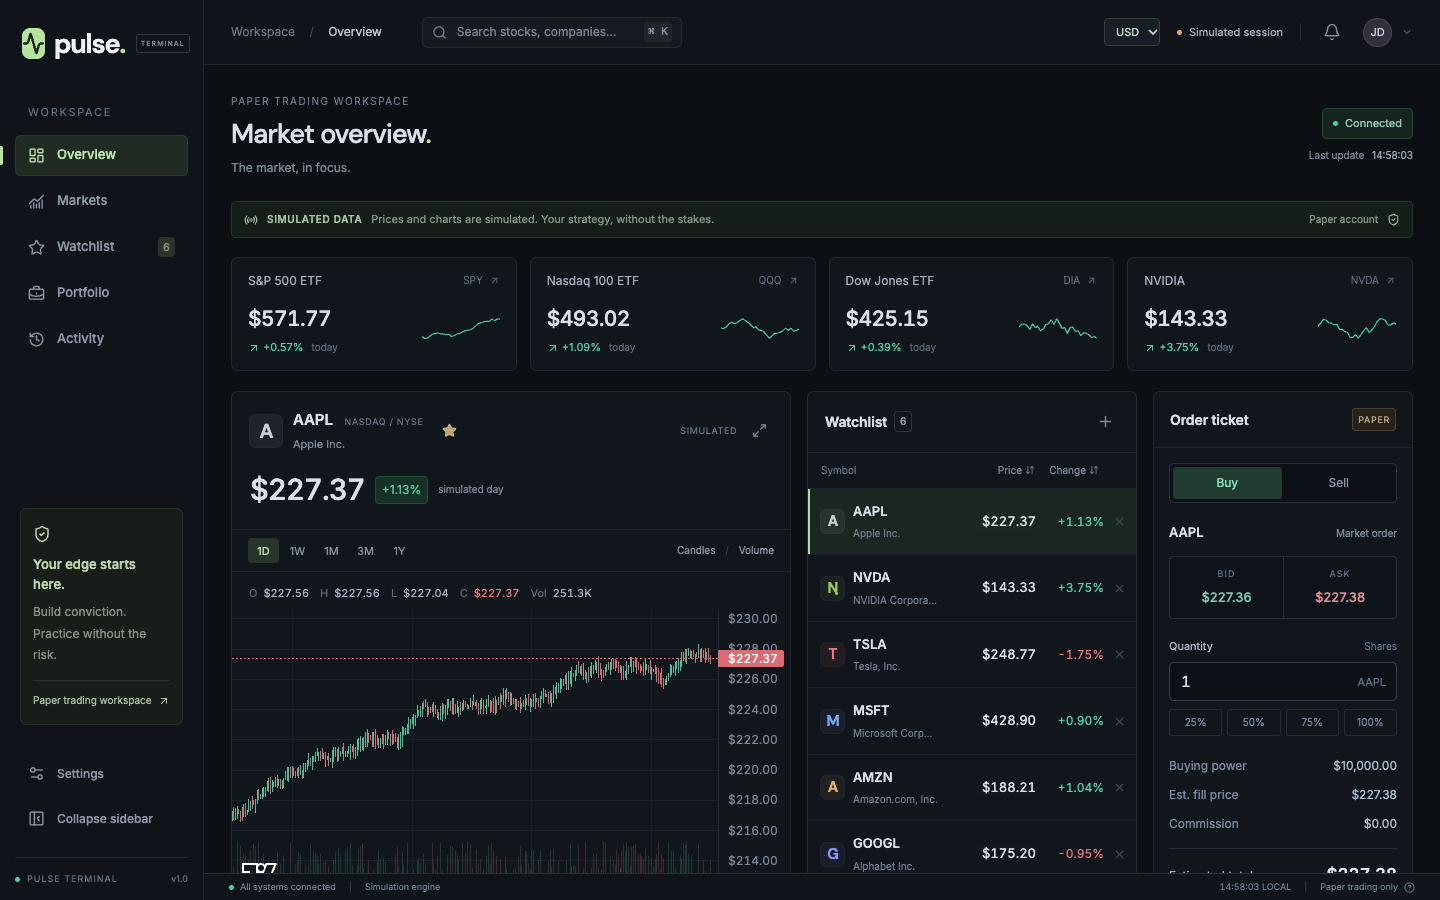
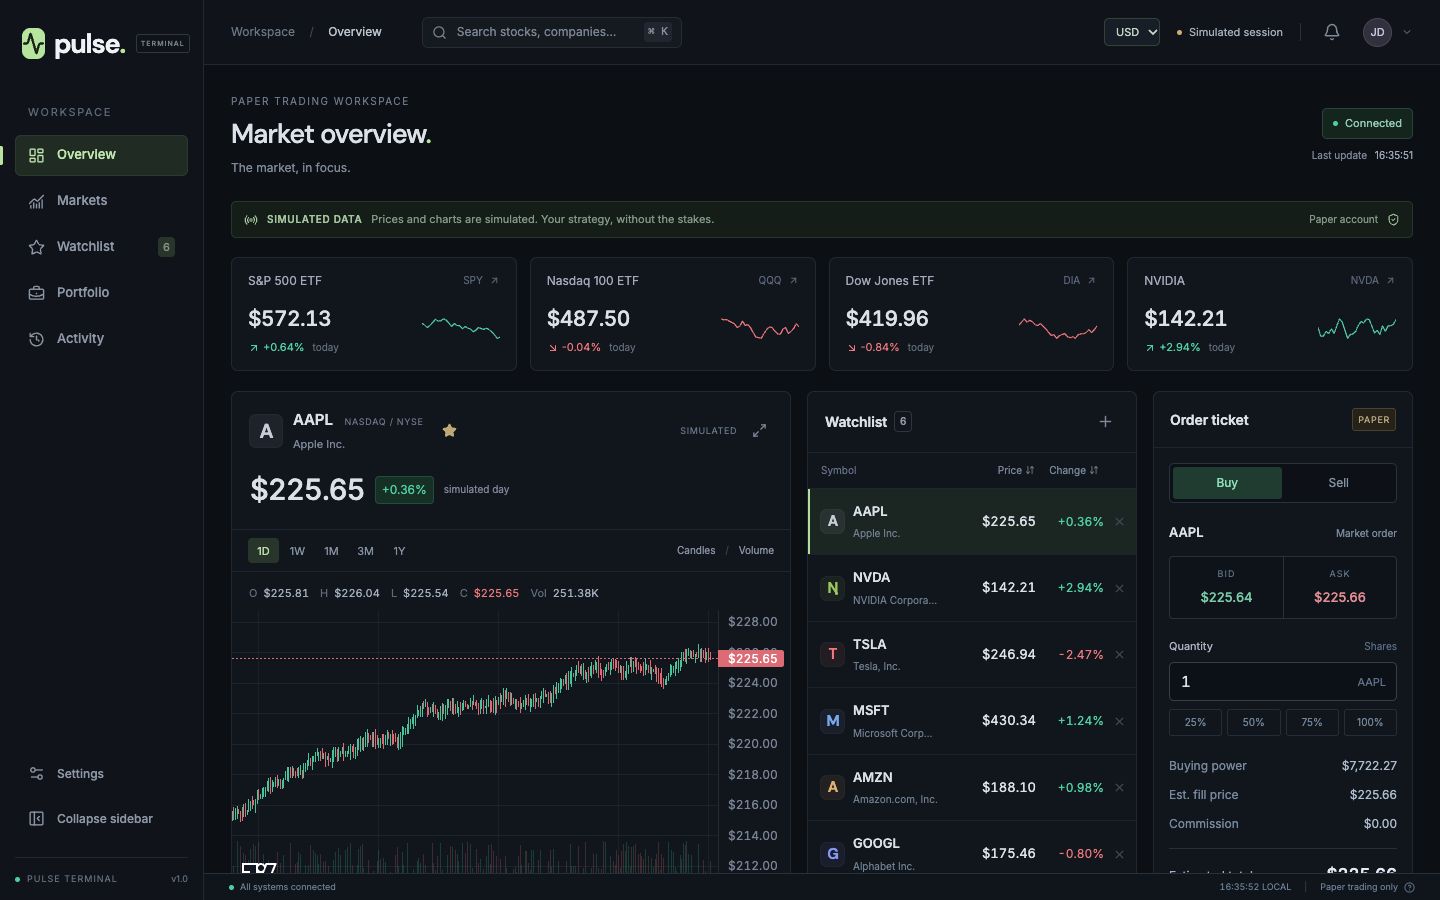
update screenshots

diff --git a/index.html b/index.html
@@ -95,10 +95,11 @@
                 </div>
             </div>
             <div class="project">
-                <img src="./images/survey.png" alt="Travel Survey screenshot">
-                <h2 class="projectTitle">Travel Survey</h2>
-                <p class="projectDescription">A dynamic web application built using Vue 3 that allows users to participate in a survey about their travel preferences.
-                The application features a user-friendly interface, responsive design and state management using Vuex </p>
+                <img src="./images/talaria.png" alt="Talaria travel planner showing trip preferences and a personalised budget">
+                <h2 class="projectTitle">Talaria</h2>
+                <p class="projectDescription">An AI-assisted travel planner built with Vue, Tailwind CSS and TypeScript.
+                    Users set their budget, interests and travel preferences, explore destination suggestions and compare
+                    options to shape their own personalised trip plan.</p>
                 <img class="toolsUsed" src="./images/vue.png" alt="Vue logo" title="React">
                 <img class="toolsUsed" src="./images/typescript.png" alt="Typescript logo" title="Sass">
                 <img class="toolsUsed" src="./images/tailwind.png" alt="Tailwind logo" title="ChartJS">
